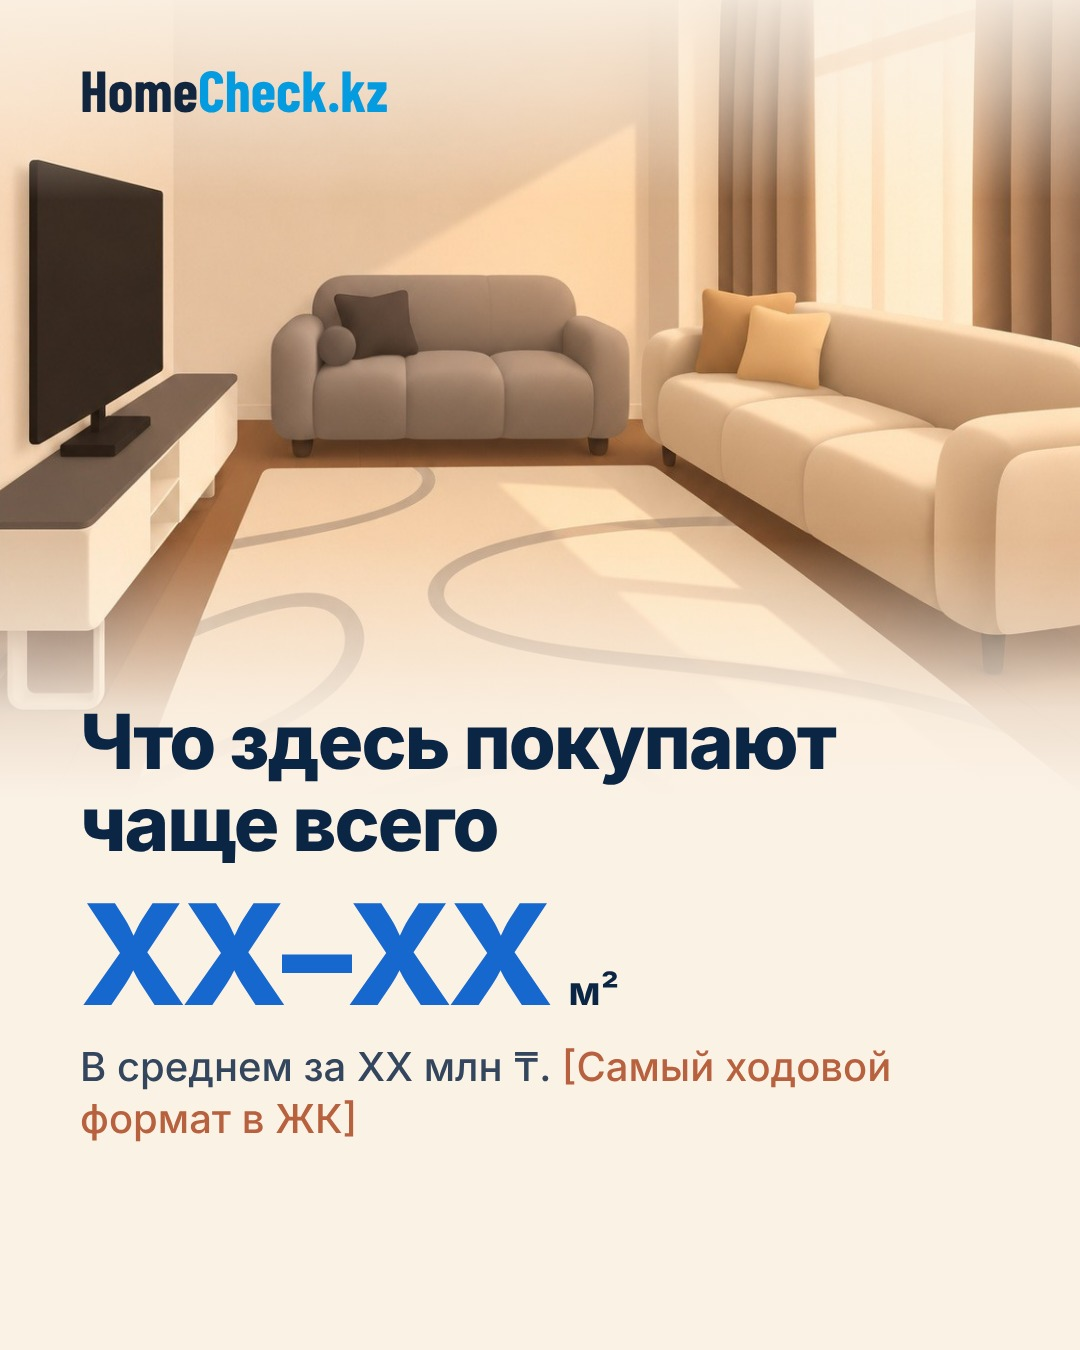
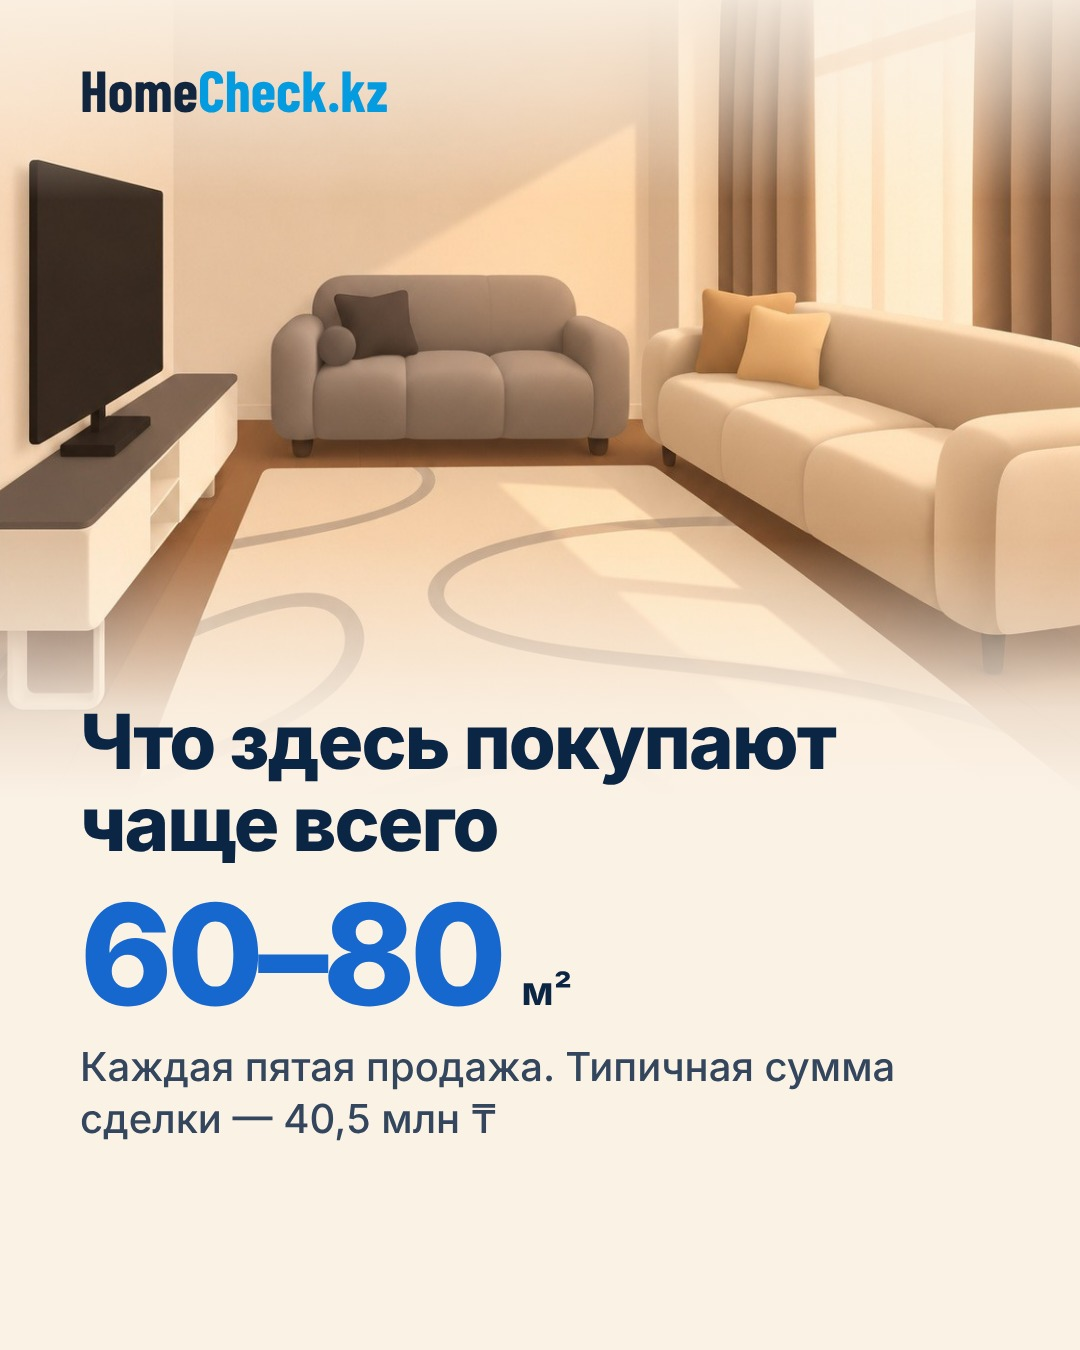
Разбор ЖК Хайвил: проверенные данные (медианы, 260 продаж), подпись
Claude-Session: https://claude.ai/code/session_01YPTRhbcfXRBnSeVtmn8ipe

Changed region(s): [[0.0611, 0.7778, 0.825, 0.84], [0.3056, 0.6533, 0.5806, 0.7467], [0.0611, 0.6533, 0.275, 0.7467]]

diff --git a/posts/zhk-bez-filtrov-01-hayvill/build.py b/posts/zhk-bez-filtrov-01-hayvill/build.py
@@ -10,7 +10,7 @@ from PIL import Image
 
 HERE = pathlib.Path(__file__).resolve().parent
 NAVY, BLUE, TERRA, CREAM, SKY = '#0B2545', '#1768CE', '#B8613F', '#FBF2E6', '#DCEAF6'
-NAME = 'Хайвилл'
+NAME = 'Хайвил'
 IMG = {n: data_uri(Image.open(HERE / 'src' / f'{n}.jpg')) for n in ['interior', 'towers', 'aerial', 'courtyard']}
 
 CSS = f"""
@@ -72,24 +72,24 @@ def fact(img, pos, title, num, unit, line):
 S1 = page(full('aerial', '50% 0%', 520)
           + f'<div class="col" style="top:170px"><h1 class="t" style="font-size:140px;line-height:1;letter-spacing:-.04em">{NAME}</h1>'
             f'<p class="p" style="margin-top:18px;color:{NAVY};font-weight:700">Что о нём говорят реальные сделки →</p></div>'
-          + tag(560, 1020, 'XX тыс. ₸', 'за м² по сделкам', 470, 880))
+          + tag(560, 1020, '≈650 тыс. ₸', 'за м² по сделкам', 470, 880))
 
-S2 = fact('towers', '50% 12%', 'Сколько стоит метр на&nbsp;самом деле', 'XX', 'тыс. ₸ за м²',
-          'Средняя цена по&nbsp;зарегистрированным сделкам в&nbsp;ЖК')
-S3 = fact('aerial', '50% 55%', 'Как держит цену', '+XX%', 'за год',
-          f'В среднем по Астане — +XX%. <span class="ph">[Дорожает быстрее города]</span>')
-S4 = fact('interior', '50% 60%', 'Что здесь покупают чаще всего', 'XX–XX', 'м²',
-          f'В среднем за XX млн ₸. <span class="ph">[Самый ходовой формат в&nbsp;ЖК]</span>')
-S5 = fact('courtyard', '50% 88%', 'Как долго владеют квартирой', 'X', 'лет',
-          f'В среднем до&nbsp;продажи. <span class="ph">[Квартиры здесь редко перепродают]</span>')
+S2 = fact('towers', '50% 12%', 'Сколько стоит метр на&nbsp;самом деле', '≈650', 'тыс. ₸ за м²',
+          'Типичная цена метра по&nbsp;зарегистрированным сделкам в&nbsp;ЖК')
+S3 = fact('aerial', '50% 55%', 'Как меняются цены', '+9%', 'за год',
+          'Настолько выросла типичная цена метра по&nbsp;сравнению с&nbsp;предыдущим годом')
+S4 = fact('interior', '50% 60%', 'Что здесь покупают чаще всего', '60–80', 'м²',
+          'Каждая пятая продажа. Типичная сумма сделки — 40,5&nbsp;млн&nbsp;₸')
+S5 = fact('courtyard', '50% 88%', 'Как долго владеют квартирой', '≈5', 'лет',
+          'Типичный срок между покупкой и&nbsp;перепродажей')
 
 rows = ''.join(
-    f'<div style="display:flex;align-items:center;gap:28px;padding:30px 0;border-top:2px solid #EADCC8">'
+    f'<div style="display:flex;align-items:center;gap:28px;padding:24px 0;border-top:2px solid #EADCC8">'
     f'<span style="flex:none;width:68px;height:68px;border-radius:50%;background:{TERRA};color:#fff;display:flex;align-items:center;justify-content:center;font-size:40px;font-weight:700">{i}</span>'
-    f'<span class="ph" style="font-size:40px;font-weight:700">{t}</span></div>'
-    for i, t in enumerate(['[Дорожает быстрее города]', '[Квартиры редко перепродают]', '[Чаще всего берут 60–80 м²]'], 1))
+    f'<span style="font-size:40px;font-weight:700;color:{NAVY}">{t}</span></div>'
+    for i, t in enumerate(['≈650 тыс. ₸ за м² по&nbsp;сделкам', '+9% к&nbsp;цене метра за&nbsp;год', 'Чаще всего покупают 60–80&nbsp;м²', '≈5 лет владеют до&nbsp;перепродажи'], 1))
 S6 = page(top('towers', '50% 90%', 620)
-          + f'<div class="col" style="top:560px"><h2 class="t">Коротко о&nbsp;Хайвилле</h2><div style="margin-top:26px">{rows}</div></div>')
+          + f'<div class="col" style="top:560px"><h2 class="t">Коротко о&nbsp;Хайвиле</h2><div style="margin-top:26px">{rows}</div></div>')
 
 S7 = page(full('courtyard', '50% 100%', 560)
           + f'<div class="col" style="top:170px"><h2 class="t">А что сделки говорят о&nbsp;вашем ЖК?</h2>'
